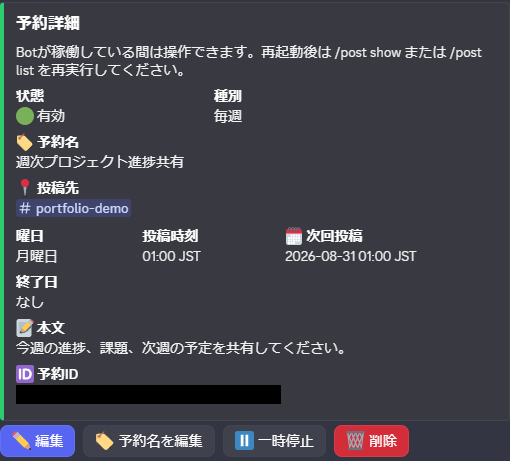
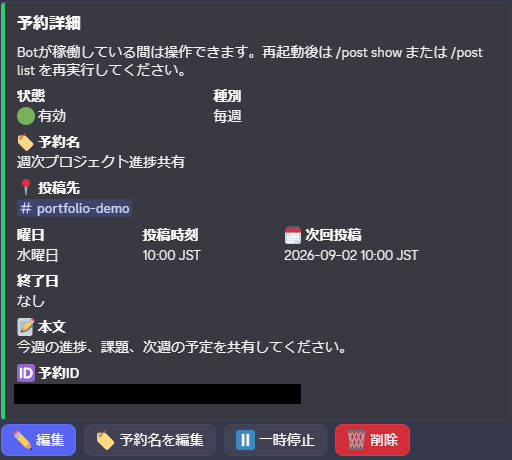
docs: refresh Yoyaku Honpo portfolio screenshots

diff --git a/docs/portfolio/assets/manifest.md b/docs/portfolio/assets/manifest.md
@@ -2,13 +2,13 @@
 
 ## 1. 監査状態
 
-2026-08-30に、専用開発guildの撮影用private channel `portfolio-demo`と新規合成データだけで4枚を作成した。撮影・匿名化の実施者はOto、repository上のPNG構造・hash・文字列・目視監査者はCodexである。実利用者データ、実運用データ、元画像、編集layerはrepositoryへ含めていない。
+2026-08-31に、専用開発guildの撮影用private channel `portfolio-demo`と新規合成データだけで4枚を再撮影した。撮影・匿名化の実施者は利用者、repository上のPNG構造・hash・文字列・目視監査者はCodexである。実利用者データ、実運用データ、元画像、編集layerはrepositoryへ含めていない。
 
-公開候補は画素だけを新しいPNGへ再描画し、一覧・詳細の完全な予約UUIDをalphaなしの不透明図形で覆ってflattenしている。ぼかし、mosaic、半透明maskは使用していない。機械監査では全fileのPNG signature、chunk CRC、IEND、trailing dataなしを確認し、chunkは`IHDR`、`sRGB`、`gAMA`、`pHYs`、`IDAT`、`IEND`だけであった。`tEXt`、`zTXt`、`iTXt`、`eXIf`、XMP、EXIFは存在しない。
+一覧・詳細の完全な予約UUIDはalphaなしの不透明な黒矩形で覆ってflattenしている。ぼかし、mosaic、半透明maskは使用していない。一覧・詳細はXMPだけを除去し、画像データを保持した。2026-08-31の機械監査では全fileのPNG signature、chunk CRC、IEND、trailing dataなしを確認し、chunkは`IHDR`、`sRGB`、`gAMA`、`pHYs`、`IDAT`、`IEND`だけであった。text、XMP、EXIFを格納するchunkは存在しない。
 
-本manifestは6B-2の組み込み監査を記録する。Discordの最新商標・画面掲載条件、Git履歴、全公開状態の最終判断は6Cに残す。
+本manifestは6B-2の組み込み監査と2026-08-31の再撮影監査を記録する。Discordの最新商標・画面掲載条件、Git履歴、全公開状態の最終判断は6Cに残す。
 
-画像は製品名「よやく本舗」の採用予定決定前に撮影した。`scheduled-post-delivered.png`には撮影時の開発用Bot表示名 `D AI Reminder Bot Dev` が含まれる。これは現在の製品名ではなく過去証跡である。画像とSHA-256は変更せず、採用予定名での再撮影と差し替え判断を公開前の後続事項とする。
+編集Modalと投稿結果には撮影時の開発用Bot表示名 `よやく本舗 Dev` と、利用者が採用したAI生成アイコンが含まれる。アイコンはこの会話の内蔵画像生成機能で新規生成し、第三者画像を参照素材として指定していない。編集時は同機能で生成した直前案を参照した。独立したアイコンfileはrepositoryへ追加しない。AI生成であることは、独占権、非侵害、「よやく本舗」の商標確認完了を保証しない。採用予定名の商標確認と6Cの法的条件・最終公開判断は未完了である。差し替え前画像とhashは過去commitの検証証跡として維持する。
 
 ## 2. Asset records
 
@@ -19,15 +19,15 @@
 | 用途 | 単発・毎日・毎週の予約名、状態、種別、日時、投稿先を示す一覧 |
 | 掲載先 | README代表画面、`docs/portfolio/feature-flows.md` |
 | Synthetic scenario | 撮影用channelの単発・毎日・毎週予約。表示される予約名とchannel名は新規合成データ |
-| Crop | 撮影用予約全5件のうち代表3件を残し、Discord chrome、利用者情報、guild、sidebar、通知と、それより下の非掲載領域を除外 |
-| Irreversible redaction | 3件の完全な予約UUIDをalphaなしの不透明図形で覆い、新しいPNGへflatten |
-| Metadata removal | 画素を新規PNGへ再描画。privacy関連chunkなしをrepository上で再確認 |
-| Dimensions／size | 510 × 425 px／65,173 bytes |
+| Crop | 撮影用予約全3件と操作欄を残し、Discord chrome、利用者情報、guild、sidebar、通知を除外 |
+| Irreversible redaction | 3件の完全な予約UUIDをalphaなしの不透明な黒矩形で覆ってflatten |
+| Metadata removal | XMPだけを除去し、画像データは保持。text、XMP、EXIFを格納するchunkなしをrepository上で再確認 |
+| Dimensions／size | 512 × 566 px／56,312 bytes |
 | Identifiers checked | 利用者名・icon、Discord ID、guild／channel ID、UUID、端末情報、秘密・接続情報なし |
 | Alt text | 単発・毎日・毎週の合成予約を表示した予約一覧 |
-| Capture／review date | 2026-08-30 |
-| Creator／reviewer | Oto／Codex |
[1 lines of base64/hex data omitted]
+| Capture／review date | 2026-08-31／2026-08-31 |
+| Creator／reviewer | 利用者／Codex |
[1 lines of base64/hex data omitted]
 
 ### `schedule-detail.png`
 
@@ -37,14 +37,14 @@
 | 掲載先 | README代表画面、`docs/portfolio/feature-flows.md` |
 | Synthetic scenario | `週次プロジェクト進捗共有`と撮影用本文・channelだけを使用 |
 | Crop | Discord chrome、利用者情報、guild、sidebar、通知、他messageを除外 |
-| Irreversible redaction | 完全な予約UUIDをalphaなしの不透明図形で覆い、新しいPNGへflatten |
-| Metadata removal | 画素を新規PNGへ再描画。privacy関連chunkなしをrepository上で再確認 |
-| Dimensions／size | 510 × 461 px／23,271 bytes |
+| Irreversible redaction | 完全な予約UUIDをalphaなしの不透明な黒矩形で覆ってflatten |
+| Metadata removal | XMPだけを除去し、画像データは保持。text、XMP、EXIFを格納するchunkなしをrepository上で再確認 |
+| Dimensions／size | 512 × 460 px／40,970 bytes |
 | Identifiers checked | 利用者名・icon、Discord ID、guild／channel ID、UUID、端末情報、秘密・接続情報なし |
 | Alt text | 週次プロジェクト進捗共有の状態・日時・本文・操作を表示した予約詳細 |
-| Capture／review date | 2026-08-30 |
-| Creator／reviewer | Oto／Codex |
[1 lines of base64/hex data omitted]
+| Capture／review date | 2026-08-31／2026-08-31 |
+| Creator／reviewer | 利用者／Codex |
[1 lines of base64/hex data omitted]
 
 ### `schedule-edit-modal.png`
 
@@ -52,16 +52,16 @@
 | --- | --- |
 | 用途 | 毎週予約の投稿先、曜日、時刻、終了日、本文を編集するUIを示す |
 | 掲載先 | `docs/portfolio/feature-flows.md` |
-| Synthetic scenario | `portfolio-demo`と毎週予約の合成値だけを使用 |
+| Synthetic scenario | `portfolio-demo`と毎週予約の合成値、開発用表示名 `よやく本舗 Dev`、AI生成アイコンだけを使用 |
 | Crop | Modal以外のDiscord chrome、account、guild、sidebar、通知を除外 |
-| Irreversible redaction | 実IDを撮影範囲へ含めず、画素だけを新しいPNGへflatten |
-| Metadata removal | 画素を新規PNGへ再描画。privacy関連chunkなしをrepository上で再確認 |
-| Dimensions／size | 479 × 731 px／22,444 bytes |
+| Irreversible redaction | 実IDを撮影範囲へ含めておらず、追加redactionなし |
+| Metadata removal | text、XMP、EXIFを格納するchunkなしをrepository上で確認 |
+| Dimensions／size | 480 × 729 px／36,454 bytes |
 | Identifiers checked | 利用者名・icon、Discord ID、guild／channel ID、UUID、端末情報、秘密・接続情報なし |
 | Alt text | 合成された毎週予約の投稿先・曜日・時刻・本文を編集するModal |
-| Capture／review date | 2026-08-30 |
-| Creator／reviewer | Oto／Codex |
[1 lines of base64/hex data omitted]
+| Capture／review date | 2026-08-31／2026-08-31 |
+| Creator／reviewer | 利用者／Codex |
[1 lines of base64/hex data omitted]
 
 ### `scheduled-post-delivered.png`
 
@@ -69,16 +69,16 @@
 | --- | --- |
 | 用途 | Botが通常channelへ合成本文を投稿した結果を示す |
 | 掲載先 | `docs/portfolio/feature-flows.md` |
-| Synthetic scenario | 公開前チェック用の合成本文と、撮影時の開発用Bot表示名 `D AI Reminder Bot Dev` だけを使用。現在の採用予定名ではない |
+| Synthetic scenario | 公開前チェック用の合成本文、撮影時の開発用Bot表示名 `よやく本舗 Dev`、AI生成アイコンだけを使用 |
 | Crop | 投稿message以外のguild、channel chrome、他message、利用者情報を除外 |
-| Irreversible redaction | 実IDを撮影範囲へ含めず、画素だけを新しいPNGへflatten |
-| Metadata removal | 画素を新規PNGへ再描画。privacy関連chunkなしをrepository上で再確認 |
-| Dimensions／size | 472 × 61 px／6,168 bytes |
+| Irreversible redaction | 実IDを撮影範囲へ含めておらず、追加redactionなし |
+| Metadata removal | text、XMP、EXIFを格納するchunkなしをrepository上で確認 |
+| Dimensions／size | 453 × 54 px／10,601 bytes |
 | Identifiers checked | 利用者名・icon、Discord ID、guild／channel ID、UUID、端末情報、秘密・接続情報なし |
 | Alt text | 撮影用channelへBotが投稿した公開前チェックの合成message |
-| Capture／review date | 2026-08-30 |
-| Creator／reviewer | Oto／Codex |
[1 lines of base64/hex data omitted]
+| Capture／review date | 2026-08-31／2026-08-31 |
+| Creator／reviewer | 利用者／Codex |
[1 lines of base64/hex data omitted]
 
 ## 3. 非追跡物と後処理
 

diff --git a/docs/portfolio/screenshot-policy.md b/docs/portfolio/screenshot-policy.md
@@ -52,7 +52,7 @@
 - [x] manifestへ実guild名、実ID、Project ID、秘密、local pathを記録していない。
 - [ ] 6Cで全画像の写り込み、metadata、復元可能性、元画像／編集layer非追跡を再監査した。
 - [ ] 6Cの商標・第三者素材・公開可否の利用者判断が完了した。
-- [ ] 採用予定名「よやく本舗」で必要な画面を再撮影し、既存画像の差し替え要否と新しいSHA-256を監査した。
+- [x] 採用予定名「よやく本舗」で必要な画面を再撮影し、既存画像を差し替えて新しいSHA-256を監査した。
 
 ## 8. 実施結果と限界
 
@@ -71,6 +71,17 @@
 
 6Cで行う全画像・Git履歴・商標・公開状態の最終監査は、この6B-2記録によって完了扱いにしない。
 
-### 8.2 限界
+### 8.2 2026-08-31の再撮影・差し替え監査
+
+- 利用者が新規合成データだけで4枚を再撮影し、開発用表示名 `よやく本舗 Dev` を反映した。
+- 一覧は撮影用予約全3件と操作欄を表示しており、旧画像の「全5件中の代表3件をcrop」は適用しない。
+- 一覧の予約UUID 3か所と詳細の予約UUID 1か所は、alphaなしの不透明な黒矩形で覆ってflattenした。
+- 一覧・詳細はXMPだけを除去して画像データを保持した。4枚ともchunkは`IHDR`、`sRGB`、`gAMA`、`pHYs`、`IDAT`、`IEND`だけで、text、XMP、EXIFを格納するchunkは存在しない。
+- 編集Modalと投稿結果には `よやく本舗 Dev` とAI生成アイコンが写っている。アイコンはこの会話の内蔵画像生成機能で第三者参照素材を指定せず新規生成し、編集時は同機能の直前案を参照した。独占権・非侵害・商標確認完了は保証しない。
+- 元画像、編集layer、途中画像、独立したアイコンfileはrepositoryへ追加せず、公開用4枚だけを差し替えた。
+- 撮影日と監査日は2026-08-31で、寸法、size、SHA-256、加工方法は[manifest](assets/manifest.md)へ記録した。
+- 「よやく本舗」は採用予定名であり、商標確認、6Cの法的条件、最終公開判断は未完了のまま維持する。
+
+### 8.3 限界
 
 焼き込み匿名化とmetadata除去は公開リスクを減らすが、撮影対象の権利や商標条件を自動的に解決しない。最終掲載は6Cの人手監査と利用者判断を必要とする。

diff --git a/docs/portfolio/feature-flows.md b/docs/portfolio/feature-flows.md
@@ -39,7 +39,7 @@ JSTフォールバック名は表示時の純粋関数で、DBへ保存せず本
 
 詳細Viewを開いた後に権限を失った場合は古いEmbedとViewを解除し、他人の本文、予約名、投稿先、UUIDを再表示せず固定案内だけを返す。外側Modalのcustom IDには非識別nonceを付け、同種Modalを複数保持しても別instanceを停止しない。
 
-一覧画像は撮影用予約全5件のうち、単発・毎日・毎週の代表3件が見える範囲を切り出している。完全な予約UUIDは不透明な図形で焼き込み匿名化している。
+一覧画像は撮影用予約全3件と操作欄を表示している。3件の完全な予約UUIDは不透明な黒矩形で焼き込み匿名化している。
 
 ![単発・毎日・毎週の合成予約を表示した予約一覧](assets/schedule-list.png)
 
